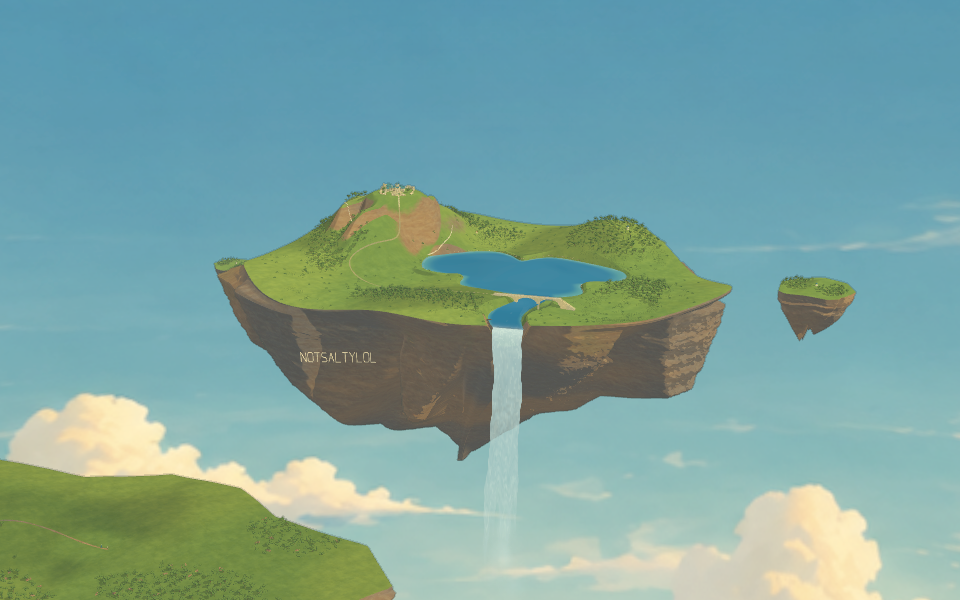
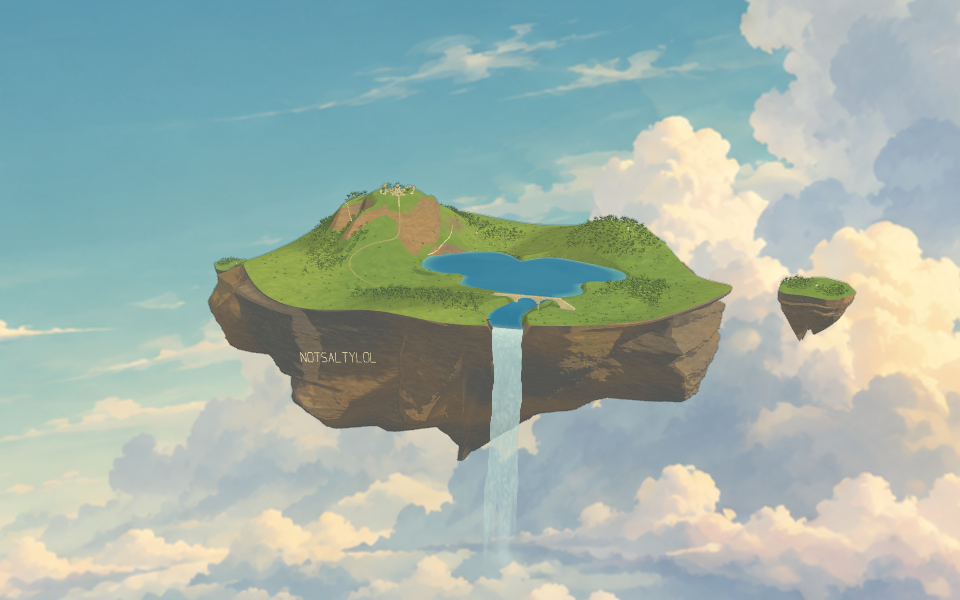
Sync sky framing, cliff structure and lookout composition from source e422424

diff --git a/public/assets/sky-castle-scene.js b/public/assets/sky-castle-scene.js
@@ -102,16 +102,21 @@ const foregroundGrass=m.grass.clone();
 foregroundGrass.onBeforeCompile=m.grass.onBeforeCompile;foregroundGrass.customProgramCacheKey=m.grass.customProgramCacheKey;
 foregroundGrass.name='painted-lookout-meadow';
 const lookoutLand=buildLookoutTerrain(THREE,{grass:foregroundGrass,rock:m.rock},{scale:LAND_SCALE});
-const ledge=lookoutLand.group;ledge.position.set(-8*LAND_SCALE,-3.7*HEIGHT_SCALE,10.5*LAND_SCALE);scene.add(ledge);
-const foreground = buildForegroundDetails(THREE,m,ledge,{scale:LAND_SCALE}); scene.add(foreground.group);
-for(const [i,x,z,height] of [[0,-11.0,10.7,1.25],[1,-10.2,11.1,.9],[2,-9.6,10.5,1.4],[3,-8.7,11.3,1.05]]){const tree=buildTree(THREE,m,{height,kind:'broadleaf',seed:79+i});tree.position.set(x*LAND_SCALE,foreground.groundHeight(x*LAND_SCALE,z*LAND_SCALE)-.025,z*LAND_SCALE);scene.add(tree);}
-traveler(-6.9*LAND_SCALE,10.45*LAND_SCALE,1.5,foreground.groundHeight(-6.9*LAND_SCALE,10.45*LAND_SCALE));traveler(-6.73*LAND_SCALE,10.46*LAND_SCALE,1.0,foreground.groundHeight(-6.73*LAND_SCALE,10.46*LAND_SCALE));
+// Offset the ridge laterally from the waterfall. The near-person preset can
+// look across open sky to the summit without the ridge covering the island tip.
+const ledge=lookoutLand.group;ledge.position.set(-14*LAND_SCALE,-1.5*HEIGHT_SCALE,16*LAND_SCALE);scene.add(ledge);
+const foreground = buildForegroundDetails(THREE,m,ledge,{scale:LAND_SCALE,viewingPoint:lookoutLand.viewingPoint}); scene.add(foreground.group);
+for(const [i,u,v,height] of [[0,-3,.2,1.25],[1,-2.2,.6,.9],[2,-1.6,0,1.4],[3,-.7,.8,1.05]]){const x=ledge.position.x+u*LAND_SCALE,z=ledge.position.z+v*LAND_SCALE;const tree=buildTree(THREE,m,{height,kind:'broadleaf',seed:79+i});tree.position.set(x,foreground.groundHeight(x,z)-.025,z);scene.add(tree);}
+const lookoutStation=new THREE.Vector3(ledge.position.x+lookoutLand.viewingPoint.x,0,ledge.position.z+lookoutLand.viewingPoint.z);
+lookoutStation.y=foreground.groundHeight(lookoutStation.x,lookoutStation.z);
+traveler(lookoutStation.x,lookoutStation.z,1.5,lookoutStation.y);
+traveler(lookoutStation.x+.9,lookoutStation.z+.2,1.0,foreground.groundHeight(lookoutStation.x+.9,lookoutStation.z+.2));
 const lookoutTerrain={scale:LAND_SCALE,verticalScale:HEIGHT_SCALE,waterLevel:-1000,
  height:(x,z)=>foreground.groundHeight(x+ledge.position.x,z+ledge.position.z)-ledge.position.y,
  trailDistance:(x,z)=>foreground.trailDistance(x+ledge.position.x,z+ledge.position.z),
  radius:lookoutLand.radius,
  contains:(x,z,margin=0)=>foreground.contains(x+ledge.position.x,z+ledge.position.z,margin)};
-const lookoutGroves=buildGroves(THREE,m,lookoutTerrain,{buildTree,count:400,islandKind:'lookout',reservedPositions:[[11,-.5,3],[12.7,-.4,3],[-30,2,3],[-22,6,3],[-16,0,3],[-7,8,3]]});ledge.add(lookoutGroves.group);groveControllers.push(lookoutGroves);
+const lookoutGroves=buildGroves(THREE,m,lookoutTerrain,{buildTree,count:400,islandKind:'lookout',reservedPositions:[[lookoutLand.viewingPoint.x,lookoutLand.viewingPoint.z,3],[-30,2,3],[-22,6,3],[-16,0,3],[-7,8,3]]});ledge.add(lookoutGroves.group);groveControllers.push(lookoutGroves);
 
 // A quiet name is assembled from actual slender stone strokes and raycast
 // onto the cliff. There is no rectangular sign or image masquerading as text.
@@ -238,6 +243,10 @@ window.setStyle(Object.hasOwn(STYLES,preferred)?preferred:DEFAULT_STYLE,{persist
 const focus=new THREE.Vector3(),cameraRight=new THREE.Vector3(),cameraUp=new THREE.Vector3(),cameraDirection=new THREE.Vector3();
 let shadowZoom=-1,detailShadowRevision=-1;const shadowFocus=new THREE.Vector3(Infinity,Infinity,Infinity);
 let azimuthOffset=.24,elevation=.37,zoom=1,elapsed=0,last=performance.now(),paused=matchMedia('(prefers-reduced-motion: reduce)').matches;
+// Keep the near-horizontal Lookout orbit valid after a pan or horizontal drag.
+// Other presets retain the normal above-island elevation limits.
+let lookoutOrbit=false;
+const minimumElevation=()=>lookoutOrbit?-.65:.12;
 window.animationConfig={duration:DURATION,fps:12};
 try{
  const [skyTexture]=await Promise.all([atmosphere.ready,meadowReady,rockReady]);
@@ -288,10 +297,20 @@ document.getElementById('loading')?.remove();renderer.domElement.style.visibilit
 const pause=document.getElementById('pause');function updatePause(){pause.textContent=paused?'Play motion':'Pause motion';pause.setAttribute('aria-pressed',String(paused));}updatePause();
 pause.addEventListener('click',()=>{paused=!paused;updatePause();});
 function selectView(id){
- azimuthOffset=.24;elevation=.37;elapsed=0;camera.fov=30;
+ azimuthOffset=.24;elevation=.37;elapsed=0;camera.fov=30;lookoutOrbit=id==='lookout';
  if(id==='castle'){focus.copy(terrain.castleAnchor);focus.y+=1.1;zoom=12;elevation=.43;}
  else if(id==='lake'){focus.set(1.5*LAND_SCALE,terrain.waterLevel,1.9*LAND_SCALE);zoom=7;elevation=.48;}
- else if(id==='lookout'){focus.set(-6.9*LAND_SCALE,foreground.groundHeight(-6.9*LAND_SCALE,10.45*LAND_SCALE)+14,10.45*LAND_SCALE);zoom=7;elevation=.12;azimuthOffset=-.56;camera.fov=48;}
+ else if(id==='lookout'){
+  focus.set(0,-1.2*HEIGHT_SCALE,0);
+  const direction=new THREE.Vector3(focus.x-lookoutStation.x,0,focus.z-lookoutStation.z).normalize();
+  const right=new THREE.Vector3(-direction.z,0,direction.x);
+  // These metre-scale offsets make the existing, unscaled people readable.
+  // A wider lens holds the distant summit, floating tip, and nearby path.
+  const eye=lookoutStation.clone().addScaledVector(direction,-7).addScaledVector(right,3);eye.y+=3;
+  const offset=eye.sub(focus),radius=Math.hypot(offset.x,offset.z);
+  zoom=32*LAND_SCALE/radius;azimuthOffset=Math.atan2(offset.x,offset.z);
+  elevation=Math.asin((offset.y*zoom-1)/(32*LAND_SCALE));camera.fov=50;
+ }
  else{focus.set(0,0,0);zoom=1;id='overview';}
  window.castleState.view=id;document.querySelectorAll('[data-view]').forEach(button=>button.setAttribute('aria-pressed',String(button.dataset.view===id)));
  if(id!=='overview'){paused=true;updatePause();}window.renderFrame(0);
@@ -309,14 +328,14 @@ document.getElementById('zoom-in').addEventListener('click',()=>changeZoom(1.35)
 let drag=null;
 renderer.domElement.addEventListener('contextmenu',event=>event.preventDefault());
 renderer.domElement.addEventListener('pointerdown',event=>{drag={x:event.clientX,y:event.clientY,pan:event.shiftKey||event.button===2};renderer.domElement.setPointerCapture(event.pointerId);paused=true;updatePause();});
-renderer.domElement.addEventListener('pointermove',event=>{if(!drag)return;const dx=event.clientX-drag.x,dy=event.clientY-drag.y;if(drag.pan)pan(dx,dy);else{azimuthOffset-=dx*.007;elevation=Math.max(.12,Math.min(.9,elevation+dy*.005));}drag.x=event.clientX;drag.y=event.clientY;window.renderFrame(elapsed/(DURATION*1000));});
+renderer.domElement.addEventListener('pointermove',event=>{if(!drag)return;const dx=event.clientX-drag.x,dy=event.clientY-drag.y;if(drag.pan)pan(dx,dy);else{azimuthOffset-=dx*.007;elevation=Math.max(minimumElevation(),Math.min(.9,elevation+dy*.005));}drag.x=event.clientX;drag.y=event.clientY;window.renderFrame(elapsed/(DURATION*1000));});
 renderer.domElement.addEventListener('pointerup',()=>{drag=null;});renderer.domElement.addEventListener('pointercancel',()=>{drag=null;});
 renderer.domElement.addEventListener('wheel',event=>{event.preventDefault();changeZoom(Math.exp(-event.deltaY*.001));},{passive:false});
 renderer.domElement.addEventListener('keydown',event=>{
  if(!['ArrowLeft','ArrowRight','ArrowUp','ArrowDown','+','=','-'].includes(event.key))return;
  event.preventDefault();paused=true;updatePause();
  if(event.shiftKey&&event.key.startsWith('Arrow'))pan(event.key==='ArrowLeft'?35:event.key==='ArrowRight'?-35:0,event.key==='ArrowUp'?35:event.key==='ArrowDown'?-35:0);
- else{if(event.key==='ArrowLeft')azimuthOffset-=.08;if(event.key==='ArrowRight')azimuthOffset+=.08;if(event.key==='ArrowUp')elevation=Math.min(.9,elevation+.04);if(event.key==='ArrowDown')elevation=Math.max(.12,elevation-.04);}
+ else{if(event.key==='ArrowLeft')azimuthOffset-=.08;if(event.key==='ArrowRight')azimuthOffset+=.08;if(event.key==='ArrowUp')elevation=Math.min(.9,elevation+.04);if(event.key==='ArrowDown')elevation=Math.max(minimumElevation(),elevation-.04);}
  if(event.key==='+'||event.key==='=')zoom=Math.min(16,zoom*1.2);if(event.key==='-')zoom=Math.max(.65,zoom/1.2);
  window.renderFrame(elapsed/(DURATION*1000));
 });

diff --git a/public/assets/sky-castle-foreground.js b/public/assets/sky-castle-foreground.js
@@ -2,7 +2,7 @@ import { createDetailView } from './sky-castle-lod.js';
 import { createHabitat } from './sky-castle-habitat.js';
 
 /** Grounded details for the foreground lookout, shared by every art direction. */
-export function buildForegroundDetails(THREE, materials, ledge, {scale:landScale=1}={}) {
+export function buildForegroundDetails(THREE, materials, ledge, {scale:landScale=1,viewingPoint={x:1.48*landScale,z:-.55*landScale+.20}}={}) {
   const group = new THREE.Group();
   group.name = 'lookout-garden';
   ledge.updateMatrixWorld(true);
@@ -91,10 +91,11 @@ export function buildForegroundDetails(THREE, materials, ledge, {scale:landScale
   // edges and occasional embedded stones read as use, not an evenly spaced
   // ornamental necklace across an otherwise unbroken lawn.
   const path = new THREE.CatmullRomCurve3([
-    new THREE.Vector3(-15, 0, 11.15), new THREE.Vector3(-12, 0, 11.5),
-    new THREE.Vector3(-9.2, 0, 10.15), new THREE.Vector3(-6.7, 0, 10.5),
+    new THREE.Vector3(-7, 0, .65), new THREE.Vector3(-4, 0, .8),
+    new THREE.Vector3(-1.2, 0, -.35), new THREE.Vector3(.3, 0, -.25),
+    new THREE.Vector3(viewingPoint.x/landScale, 0, viewingPoint.z/landScale),
   ]);
-  for(const point of path.points){point.x*=landScale;point.z*=landScale;}
+  for(const point of path.points){point.x=ledge.position.x+point.x*landScale;point.z=ledge.position.z+point.z*landScale;}
   path.updateArcLengths();
   const trailPoints=path.getSpacedPoints(Math.ceil(path.getLength()/.45));
   function trailDistance(x,z){
@@ -195,6 +196,38 @@ export function buildForegroundDetails(THREE, materials, ledge, {scale:landScale
     for(let j=0;j<2;j++)leaves.push({x:x+(j?1:-1)*.027,y:y+h*.45,z,
       scale:[.042,.008,.018],rotation:[0,angle,j?.45:-.45]});
   }
+  // The viewing clearing stays open, but a few low plants at the worn path's
+  // shoulders give the nearby camera a physical scale cue. Their dimensions
+  // are in metres, independent of the size of the floating landform.
+  const viewingX=ledge.position.x+viewingPoint.x,viewingZ=ledge.position.z+viewingPoint.z;
+  const viewingClover=[],tufts=[];
+  for(const [dx,dz,radius] of [[-1.2,-.06,.30],[7.2,3.3,1.1]]){
+    const cx=viewingX+dx,cz=viewingZ+dz;
+    if(!contains(cx,cz,radius))continue;
+    for(let i=0;i<(radius<.5?26:42);i++){
+      const a=random()*Math.PI*2,r=radius*Math.sqrt(random()),x=cx+Math.cos(a)*r,z=cz+Math.sin(a)*r;
+      if(!contains(x,z,.12)||trailDistance(x,z)<.26)continue;
+      const size=.75+random()*.5;
+      tufts.push({x,y:groundHeight(x,z)-.008,z,scale:[size,size,size],rotation:[0,random()*Math.PI*2,0]});
+      if(i%3===0)viewingClover.push([x,z]);
+    }
+  }
+  const bladePositions=[],bladeUvs=[],bladeIndices=[];
+  for(let blade=0;blade<7;blade++){
+    const angle=blade*2.399,dx=Math.cos(angle),dz=Math.sin(angle),h=.075+random()*.065,lean=.035+random()*.045;
+    const start=bladePositions.length/3;
+    for(let row=0;row<=4;row++){
+      const t=row/4,width=.014*(1-t)**.7;
+      for(const side of [-1,0,1]){
+        const x=dx*(.028+lean*t*t)-dz*side*width,z=dz*(.028+lean*t*t)+dx*side*width;
+        bladePositions.push(x,h*t+Math.sin(t*Math.PI)*.012*(side===0?1:0),z);bladeUvs.push(t,(side+1)/2);
+      }
+      if(row<4)for(let col=0;col<2;col++){const a=start+row*3+col;bladeIndices.push(a,a+1,a+3,a+1,a+4,a+3);}
+    }
+  }
+  const tuftGeometry=new THREE.BufferGeometry();tuftGeometry.setAttribute('position',new THREE.Float32BufferAttribute(bladePositions,3));
+  tuftGeometry.setAttribute('uv',new THREE.Float32BufferAttribute(bladeUvs,2));tuftGeometry.setIndex(bladeIndices);tuftGeometry.computeVertexNormals();
+  instances(tuftGeometry,materials.grass,tufts,'fine');
   // Distant shrubs have an uneven low crown. Nearby foliage replaces that
   // volume with folded leaves and branches instead of decorating a smooth ball.
   const shrubCrown=new THREE.SphereGeometry(1,9,6),crownVertices=shrubCrown.attributes.position;
@@ -234,6 +267,12 @@ export function buildForegroundDetails(THREE, materials, ledge, {scale:landScale
     const quaternion=new THREE.Quaternion().setFromUnitVectors(up,b.clone().sub(a).normalize());
     const rotation=new THREE.Euler().setFromQuaternion(quaternion);
     fernStems.push({x:middle.x,y:middle.y,z:middle.z,scale:[.004,length,.004],rotation:[rotation.x,rotation.y,rotation.z]});
+  }
+  for(const [x,z] of viewingClover){
+    const y=groundHeight(x,z),angle=random()*Math.PI*2;
+    stemBetween(new THREE.Vector3(x,y,z),new THREE.Vector3(x,y+.045,z));
+    for(let leaf=0;leaf<3;leaf++)fineLeaves.push({x,y:y+.045,z,
+      scale:[.048,.025,.073],rotation:[0,angle+leaf*Math.PI*2/3,-.12]});
   }
   const fernCenters=patches.filter((_,i)=>i%2===0).map(([x,z])=>[x,z]);
   for(const [cx,cz] of fernCenters){
@@ -289,7 +328,7 @@ export function buildForegroundDetails(THREE, materials, ledge, {scale:landScale
   }
   let detailShadowRevision=0;
   const stats={patches:patches.length,shrubs:shrubs.length,flowers:hearts.length,fineLeaves:fineLeaves.length,
-    flowerDrifts:flowerPatches.length,rockOutcrops:rockPatches.length,rocks:rocks.length,shadowRevision:0};
+    flowerDrifts:flowerPatches.length,rockOutcrops:rockPatches.length,rocks:rocks.length,viewingTufts:tufts.length,shadowRevision:0};
   function updateDetail(camera,visibleWidth){
     group.updateWorldMatrix(true,true);detailView.prepare(camera,visibleWidth);
     for(const chunk of lodChunks.values()){

diff --git a/public/assets/sky-castle-atmosphere.js b/public/assets/sky-castle-atmosphere.js
@@ -41,7 +41,12 @@ export function createAtmosphere(THREE, {
         // Grade gently in a perceptual space; keep the painted value structure.
         vec3 c=pow(max(color,vec3(0.0)),vec3(1.0/2.2));
         float value=dot(c,vec3(.2126,.7152,.0722));
-        if(paintedStyle>.5 && paintedStyle<1.5){
+        if(paintedStyle<.5){
+          // Keep cream cloud highlights while giving Fantasy's open sky and
+          // cool cloud faces a clearer blue family beside the green land.
+          float blue=smoothstep(.06,.28,c.b-c.r);
+          c=mix(c,c*vec3(.82,.93,1.10),blue*.70);
+        }else if(paintedStyle>.5 && paintedStyle<1.5){
           c=mix(vec3(value),c,.86)*vec3(1.025,1.008,.97);
         }else if(paintedStyle>1.5 && paintedStyle<2.5){
           c=mix(vec3(value),c,.72)*vec3(1.02,1.0,.91);
@@ -71,8 +76,14 @@ export function createAtmosphere(THREE, {
         float longitudeOffset=atan(sin(longitude-forwardLongitude),cos(longitude-forwardLongitude));
         // Widen the panorama in angular space. Extrapolating 3D ray vectors
         // crosses a false pole at steep camera elevations, creating a starburst.
-        float u=(forwardLongitude+longitudeOffset*1.7+.24)*panoramaRepeat/6.28318530718+.5+panoramaDrift;
-        float v=.64+asin(clamp(d.y,-1.0,1.0))*.55;
+        // Frame a wider span of the painting: a bright bank to one side,
+        // an open summit silhouette, and a distant cloud sea below the rock.
+        float u=(forwardLongitude+longitudeOffset*2.5+1.15)*panoramaRepeat/6.28318530718+.5+panoramaDrift;
+        float v=.62+asin(clamp(d.y,-1.0,1.0))*.78;
+        // The painting contains a cloud sea, not a textured lower pole. Fade
+        // into distant mist before its last rows stretch at steep views.
+        float lowerHaze=1.0-smoothstep(.03,.18,v);
+        float upperHaze=smoothstep(.91,1.06,v);
         // Preserve painted cloud structure at high/low viewing elevations.
         // A hard clamp would stretch one edge row over half the sky. These
         // soft tails retain a continuous first derivative into the poles.
@@ -81,7 +92,7 @@ export function createAtmosphere(THREE, {
         // Explicit continuous derivatives prevent the atan seam from selecting
         // a blurry mip level when the orbit crosses the panorama join.
         vec3 ld=d;
-        float longitudeScale=1.7*panoramaRepeat/(6.28318530718*max(.0001,ld.x*ld.x+ld.z*ld.z));
+        float longitudeScale=2.5*panoramaRepeat/(6.28318530718*max(.0001,ld.x*ld.x+ld.z*ld.z));
         float duX=(-ld.z*dFdx(ld.x)+ld.x*dFdx(ld.z))*longitudeScale;
         float duY=(-ld.z*dFdy(ld.x)+ld.x*dFdy(ld.z))*longitudeScale;
         vec3 paint=textureGrad(panorama,vec2(u,v),vec2(duX,dFdx(v)),vec2(duY,dFdy(v))).rgb;
@@ -91,6 +102,8 @@ export function createAtmosphere(THREE, {
         float seamBlend=(1.0-smoothstep(0.0,.045,min(wrapped,1.0-wrapped)))*.5;
         vec3 seamPaint=textureGrad(panorama,vec2(1.0-wrapped,v),vec2(-duX,dFdx(v)),vec2(-duY,dFdy(v))).rgb;
         vec3 sky=paintedGrade(mix(paint,seamPaint,seamBlend));
+        sky=mix(sky,mix(skyHorizon,skyLow,.20),lowerHaze);
+        sky=mix(sky,skyTop,upperHaze);
         #else
         float altitude=smoothstep(-.53,-.08,d.y);
         vec3 sky=mix(skyLow,skyHorizon,smoothstep(-.80,-.16,d.y));

diff --git a/public/assets/sky-castle-geology.js b/public/assets/sky-castle-geology.js
@@ -134,6 +134,54 @@ function coreRadius(depth){
   }
   return .1768;
 }
+// Five linked buttresses interrupt the large principal faces. These are
+// authored structural ribs and adjoining clefts, not a higher noise octave.
+// Their unequal lengths finish inside the supporting body rather than making
+// a repeated row of hanging blades along the bottom silhouette.
+const buttresses=[
+  // azimuth, breadth, relief, lean, start, end, adjoining cleft depth
+  [.38,.39,.54,.22,.09,.67,.26],
+  [2.35,.44,.57,-.44,.34,.84,.34],
+  [2.71,.32,.65,-.12,.065,.61,.44],
+  [3.66,.35,.44,.27,.13,.63,.28],
+  [5.13,.47,.63,-.31,.10,.77,.31],
+];
+const angularDistance=(a,b)=>{
+  const delta=(a-b)%(Math.PI*2);
+  return delta>Math.PI?delta-Math.PI*2:delta< -Math.PI?delta+Math.PI*2:delta;
+};
+const ledges=[
+    [2.68,.63,-2.85,.32,.21,-.16],
+    [.15,.62,-.91,.27,-.22,.25],
+    [4.78,.72,-2.02,.35,.28,.10],
+  ];
+function structuralRelief(angle,depth,height,radius){
+  let relief=0;
+  for(const [azimuth,width,strength,lean,start,end,cut]of buttresses){
+    const center=azimuth+lean*depth;
+    const across=Math.abs(angularDistance(angle,center))/width;
+    const plane=clamp01((1-across)/.80);
+    const rib=plane*smooth(0,.18,plane);
+    const along=smooth(start,start+.13,depth)*(1-smooth(end-.18,end,depth));
+    // The cleft crosses one shoulder obliquely. Its broad V is resolved by
+    // several mesh cells; it never jumps from an off-axis rock to the core.
+    const jointCenter=center+width*(.76-.27*depth);
+    const joint=clamp01(1-Math.abs(angularDistance(angle,jointCenter))/.094);
+    relief+=(strength*rib-cut*joint*smooth(0,.16,joint))*along;
+  }
+  // Three unequal recessed beds join different buttress systems. Each bed
+  // occupies part of one face and dips across it, never wrapping as a ring.
+  const rockX=Math.cos(angle)*radius,rockZ=Math.sin(angle)*radius*.76;
+  for(const [azimuth,width,level,cut,slopeX,slopeZ]of ledges){
+    const across=clamp01(1-Math.abs(angularDistance(angle,azimuth))/width);
+    const sector=smooth(0,.28,across);
+    const bed=height+slopeX*rockX+slopeZ*rockZ;
+    const notch=smooth(level-.65,level-.30,bed)*(1-smooth(level-.035,level+.11,bed));
+    relief-=cut*sector*notch;
+  }
+  return relief*smooth(.045,.12,depth)*(1-smooth(.80,.94,depth));
+}
+
 /** Radial envelope of connected oblique crags, in unscaled island units. */
 export function cliffFormation(angle,depth,height=1.14-6.34*depth){
   const t=clamp01(depth),dx=Math.cos(angle),dz=Math.sin(angle)*.76;
@@ -164,6 +212,7 @@ export function cliffFormation(angle,depth,height=1.14-6.34*depth){
       radius=Math.max(radius,joined);
     }
   }
+  radius+=structuralRelief(angle,t,height,radius);
   // Fine unequal strata bend across neighboring wedges, with a few locally
   // projecting lips. Low amplitude leaves the principal fracture planes clear.
   const reveal=smooth(.045,.15,t)*(1-smooth(.80,.99,t));

diff --git a/public/assets/sky-castle-lookout.js b/public/assets/sky-castle-lookout.js
@@ -12,8 +12,8 @@ export function buildLookoutTerrain(THREE, materials, {scale=10}={}) {
   // Broad promontories alternate with shallow coves. Their unequal lengths
   // give the ridge shoulders and a sheltered rear saddle at every orbit angle.
   const corners=[[-9.6,-.2],[-8.7,-1.8],[-6.2,-2.3],[-4.3,-3.3],[-1.1,-2.9],
-    [1,-3.7],[3.3,-3.2],[4.8,-2],[7.4,-1.5],[8.5,-.1],[6.9,1.6],
-    [3.2,2.9],[.6,2.4],[-2.1,3.3],[-5.4,2.4],[-7.6,1.4]];
+    [.7,-.7],[1.9,-.49],[3.3,-.1],[4.8,.7],[7.4,1.4],[8.5,2.4],[6.9,3.2],
+    [3.2,3.5],[.6,2.4],[-2.1,3.3],[-5.4,2.4],[-7.6,1.4]];
   function boundary(a){
     const dx=Math.cos(a),dz=Math.sin(a);let nearest=Infinity;
     for(let i=0;i<corners.length;i++){
@@ -37,6 +37,7 @@ export function buildLookoutTerrain(THREE, materials, {scale=10}={}) {
     const hill=(cx,cz,sx,sz)=>Math.exp(-(((u-cx)/sx)**2+((v-cz)/sz)**2));
     return scale*(.24+.77*hill(-4,-.3,3.8,2.6)+.37*hill(3,-1.3,2.5,1.9)
       -.20*hill(.1,.4,1.6,1.6)+.025*u-.036*v
+      +.12*hill(1.4,-.45,.9,.8)-.13*Math.max(0,u-1.2)
       +.048*coherentNoise3D(u*.8,17.3,v*.8));
   }
   const positions=[0,height(0,0),0],uvs=[.5,.5],indices=[];
@@ -106,5 +107,5 @@ export function buildLookoutTerrain(THREE, materials, {scale=10}={}) {
     width:Math.max(...outline.map(p=>p[0]))-Math.min(...outline.map(p=>p[0])),
     rimError,drawCalls:2};
   group.userData.lookout=stats;
-  return {group,radius,stats};
+  return {group,radius,stats,viewingPoint:{x:1.48*scale,z:-.55*scale+.20}};
 }

diff --git a/public/assets/sky-castle-terrain.js b/public/assets/sky-castle-terrain.js
@@ -277,7 +277,9 @@ export function buildTerrain(THREE, materials, { scale = 1, reservedAreas = [] }
   const cliffSegments = segments * 2, cliffRings = Math.round(72 * Math.max(1, Math.min(2, verticalScale)));
   function inscriptionProtection(a, x, y) {
     const nameX = smooth(-4.65,-4.25,x/scale)*(1-smooth(-1.60,-1.20,x/scale));
-    const nameY = smooth(-2.65,-2.30,y/verticalScale)*(1-smooth(-.25,.05,y/verticalScale));
+    // Protect the fitted letter band, not the entire face beneath it.
+    // The former broad mask erased much of the geology below the lettering.
+    const nameY = smooth(-1.04,-.82,y/verticalScale)*(1-smooth(-.30,-.06,y/verticalScale));
     return 1 - nameX * nameY * smooth(.45,.72,Math.sin(a))*.98;
   }
   function cliffBase(a, t) {
